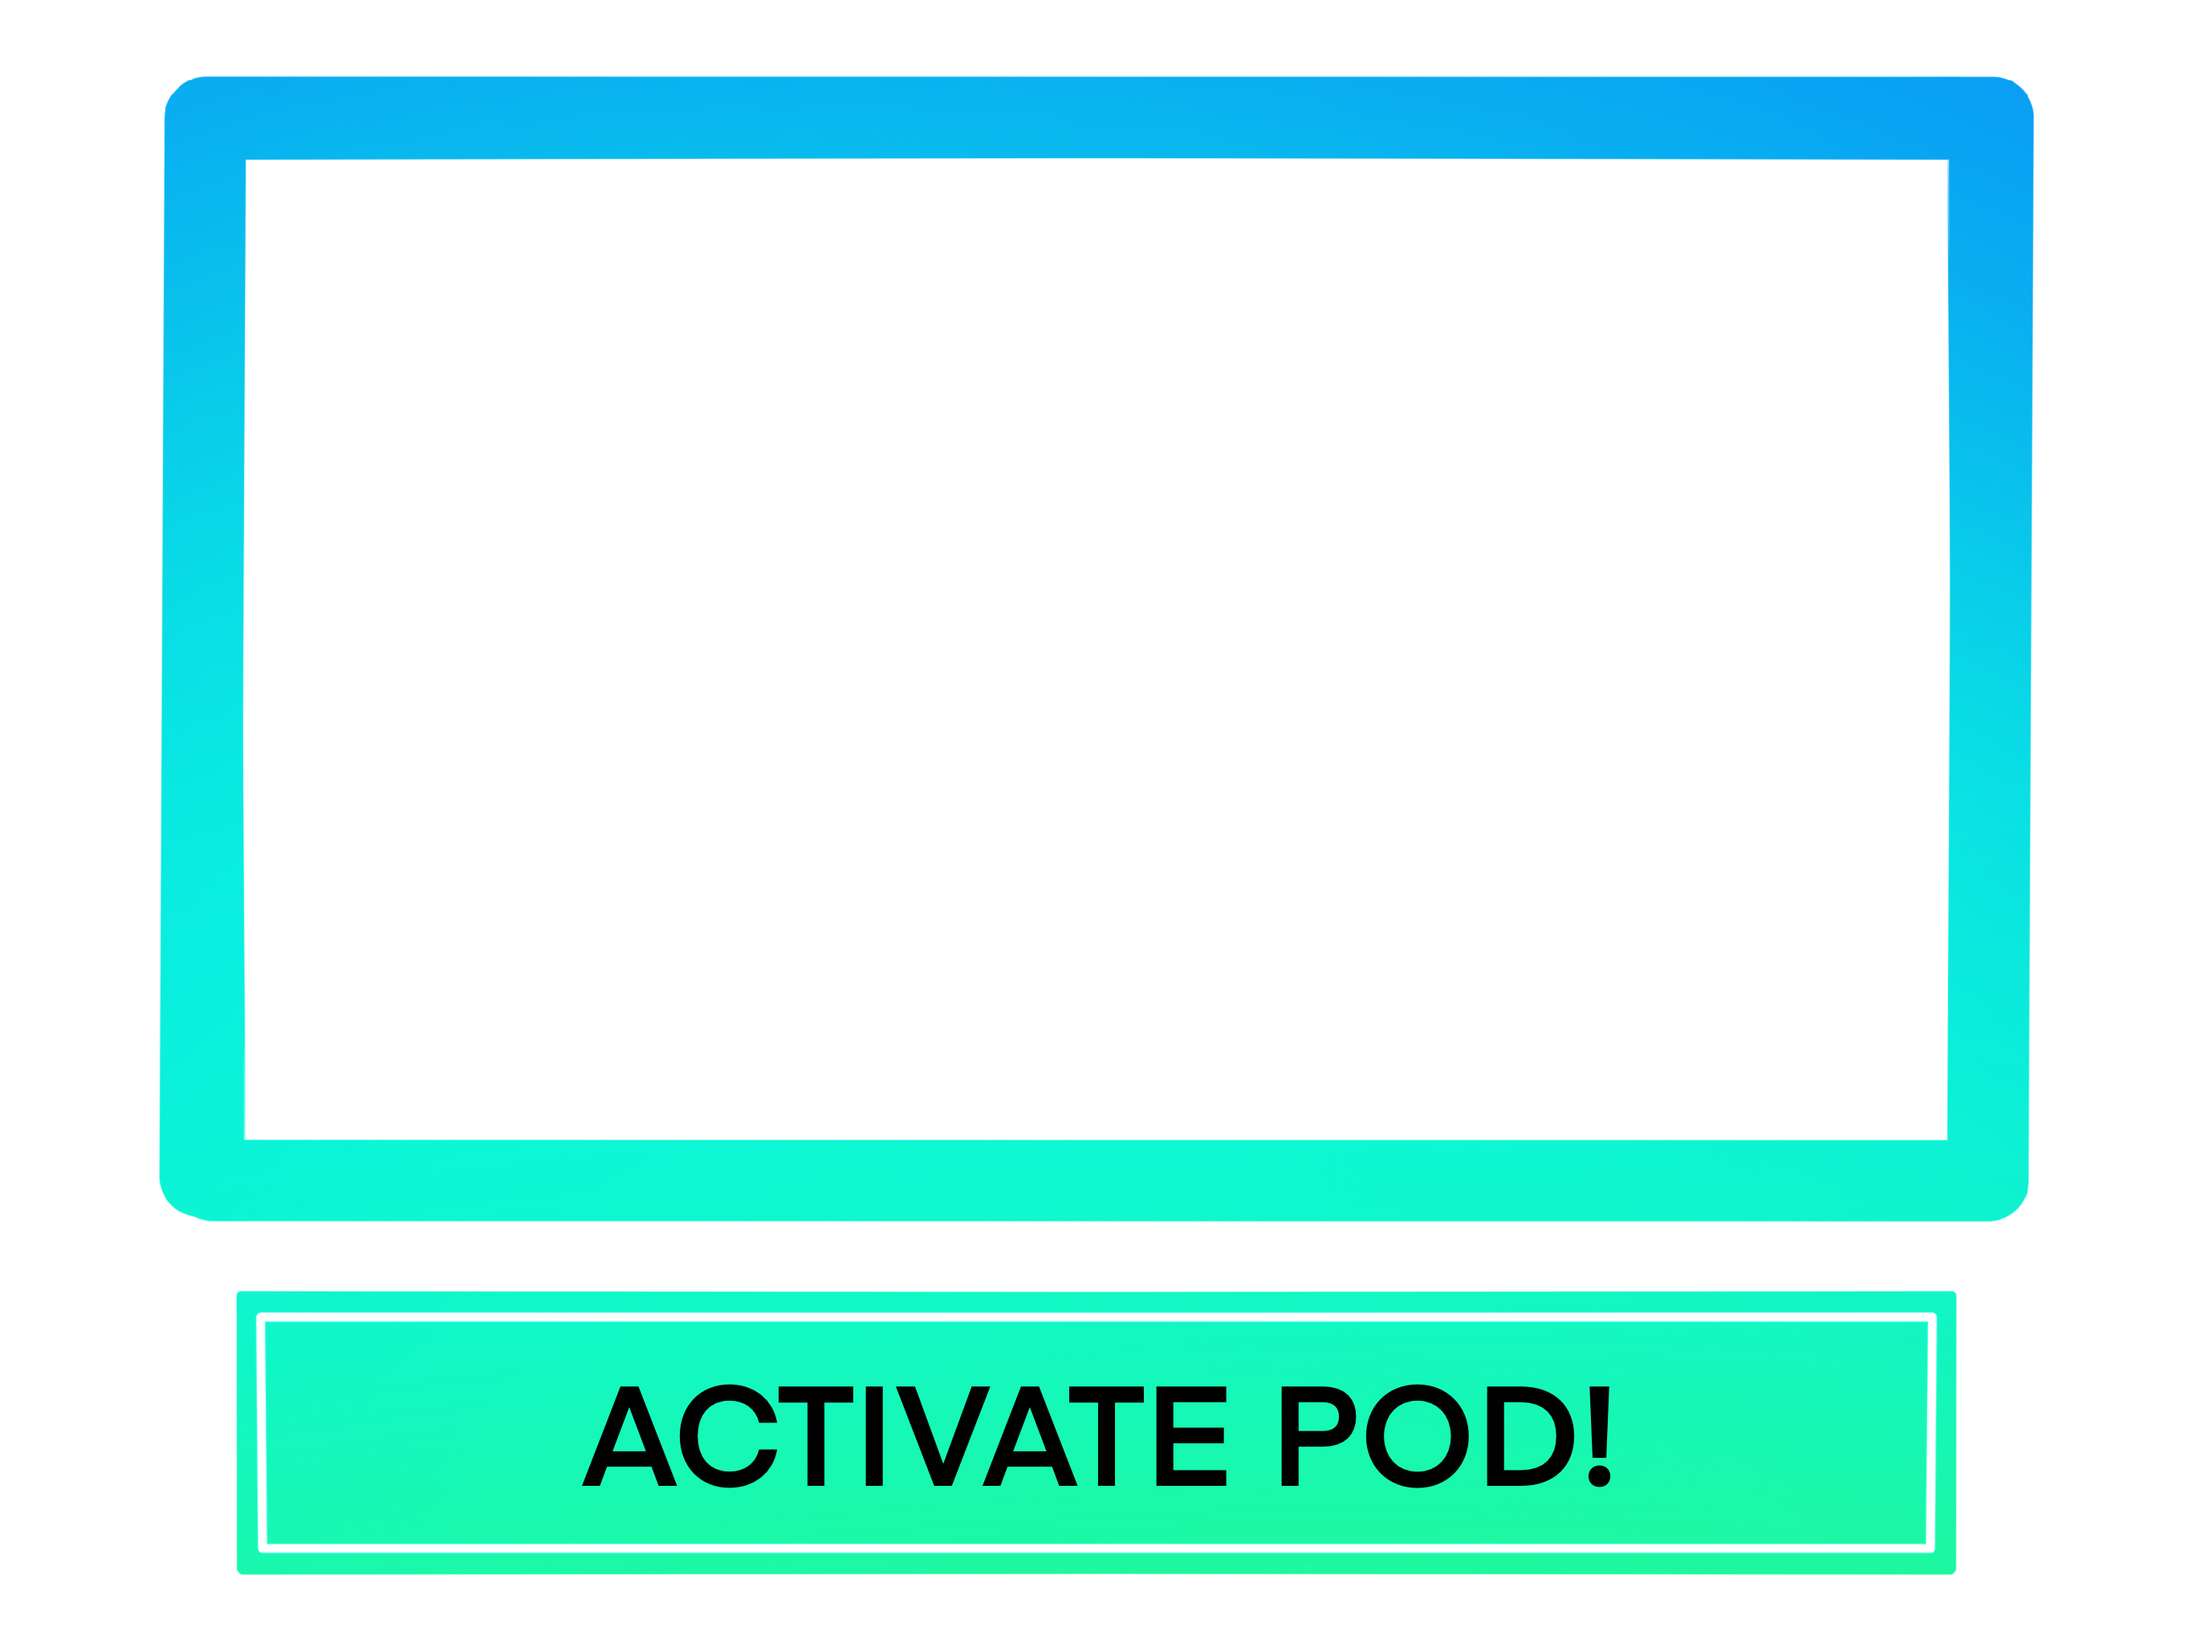
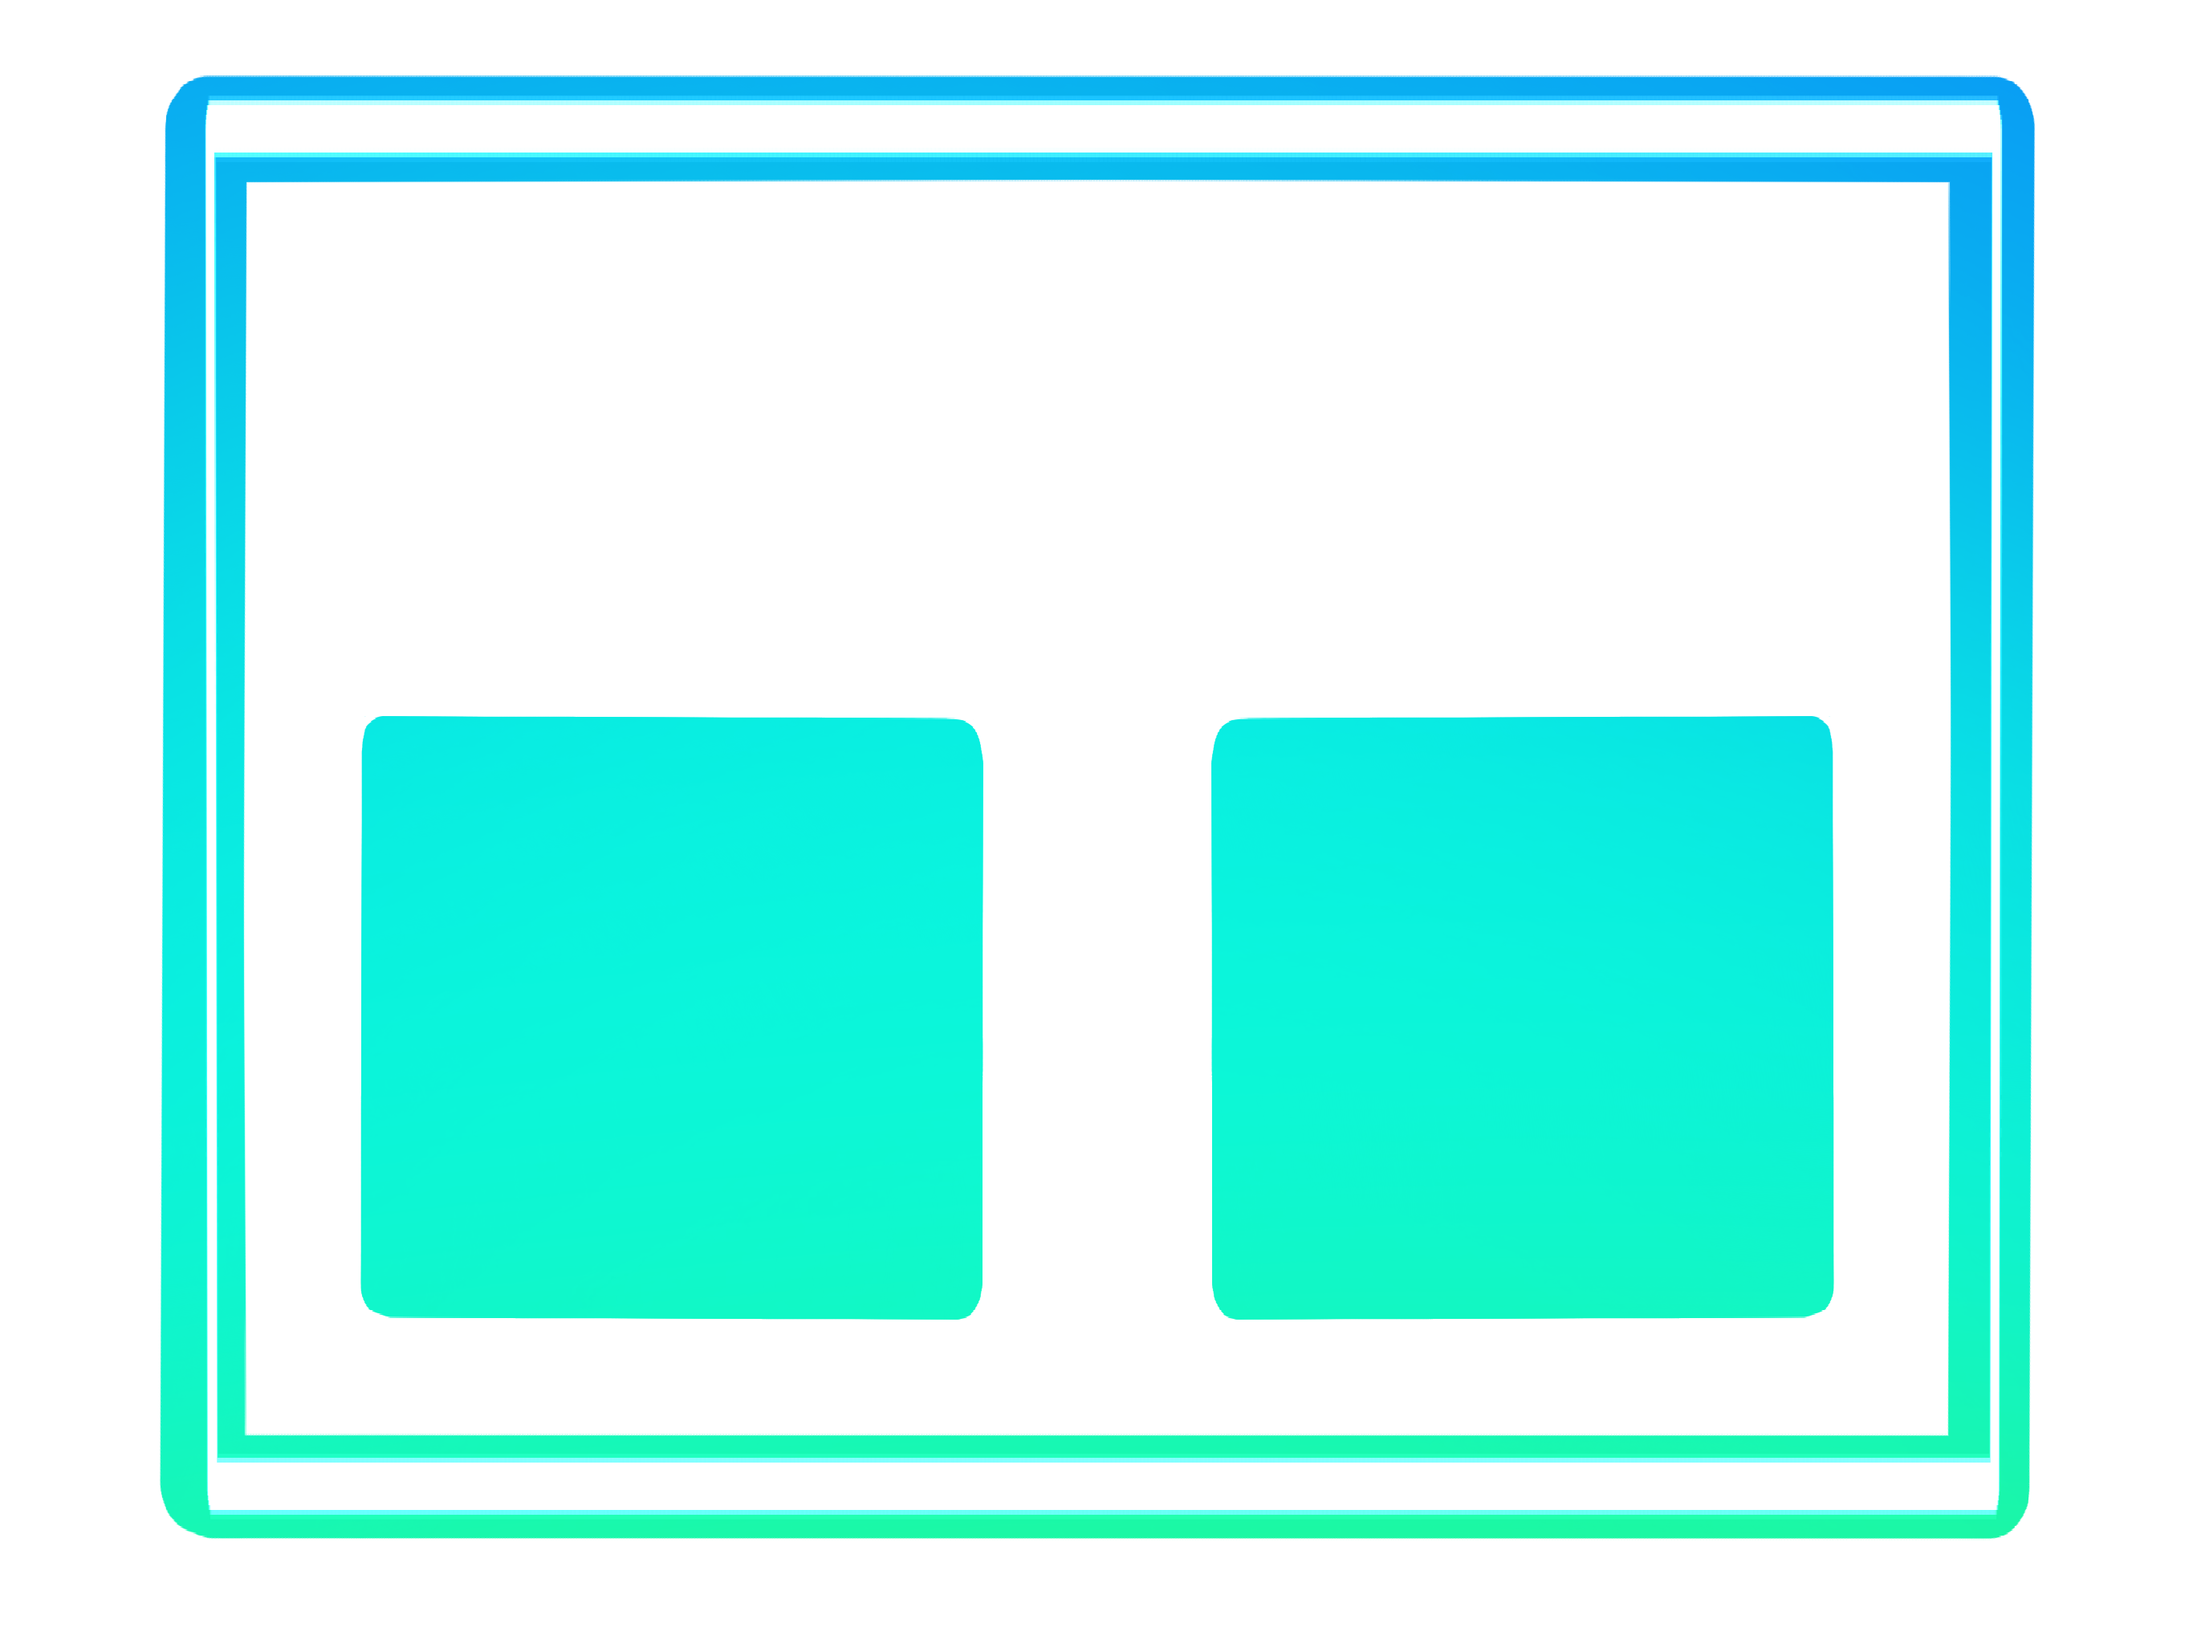
More monitor stuff

diff --git a/src/worlds/ZGS_CryoPod/index.html b/src/worlds/ZGS_CryoPod/index.html
@@ -148,7 +148,7 @@
 
       <a-entity
         id="monitor"
-        position="0 0.045 0"
+        position="-0.032 0.045 0.059"
         gltf-model="#monitor_glb"
         shadow="cast: true"
       >
@@ -161,22 +161,22 @@
       ></a-image>
       <a-entity
         id="monitor_puzzle_button"
-        position="2.466 0.876 -1.559"
-        rotation="-0.149 33.903 87.986"
-        circles-button="pedestal_visble: false;
-                        diameter:0.220
-                        button_color: #61fffc
-                        button_color_hover: #85ffca"
-        puzzle-button-trigger
+        position="1.920 1.166 -2.307"
+        rotation="0.084 35.47 90"
+        circles-button="pedestal_visible: false;
+                        diameter:0.;
+                        button_color: #61fffc;
+                        button_color_hover: #85ffca;"
+        puzzle-completion-trigger="socketIds: socket1, socket2, socket3;"
       ></a-entity>
       <a-entity
-        id="monitor_puzzle_button"
-        position="2.466 1.500 -1.559"
-        rotation="-0.149 33.903 87.986"
-        circles-button="pedestal_visble: false;
-                        diameter:0.220
-                        button_color: #61fffc
-                        button_color_hover: #85ffca"
+        id="monitor_reset_button"
+        position="2.324 1.165 -1.732"
+        rotation="1.222 35.23 90"
+        circles-button="pedestal_visible: false;
+                        diameter:0.5;
+                        button_color: #61fffc;
+                        button_color_hover: #85ffca;"
         reset-puzzle
       ></a-entity>
       </a-entity>
@@ -223,32 +223,33 @@
 
        <a-entity
         id="RoomLight1"
-        light="type: point; 
+        light="type: spot;
                intensity: 2; 
                distance: 25; 
                decay: 2; 
-               castShadow: false; 
-               shadowBias: 0.002; 
+               castShadow: true;
+               shadowBias: -0.002;
                shadowCameraFov: 100;
                shadowMapHeight: 2048;
                shadowMapWidth: 2048; 
                color: #FFFFFF"
-        position="0 0 0"
+        position="-0.48 0.355 -3.304"
+        rotation="60 0 0"
        ></a-entity>
-      
+       
        <a-entity
         id="RoomLight2"
         light="type: point; 
-               intensity: 2; 
-               distance: 25; 
-               decay: 2; 
-               castShadow: false; 
-               shadowBias: 0.002; 
+               intensity: 30; 
+               distance: 25;
+               decay: 2;
+               castShadow: true;
+               shadowBias: -0.002;
                shadowCameraFov: 100;
                shadowMapHeight: 2048;
                shadowMapWidth: 2048; 
                color: #FFFFFF"
-        position="0 0 0"
+        position="0 3.500 0"
        ></a-entity>
 
       <a-entity
